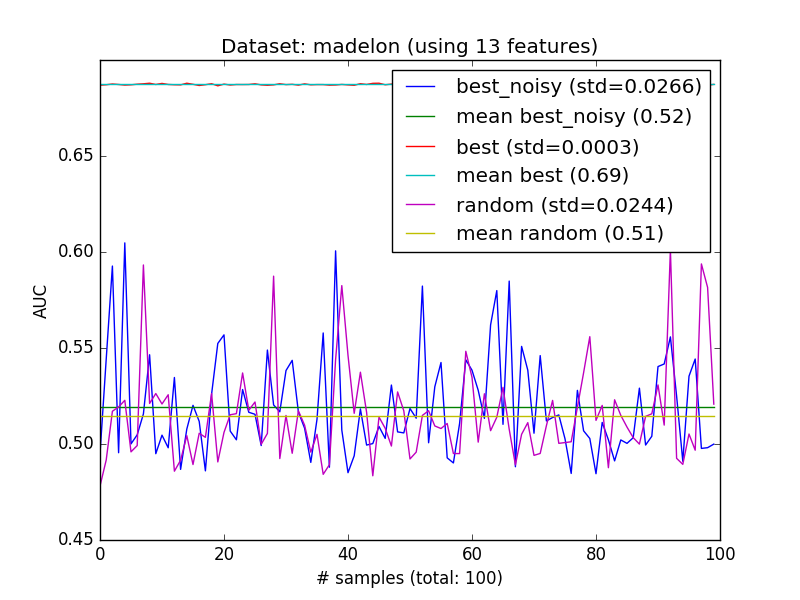
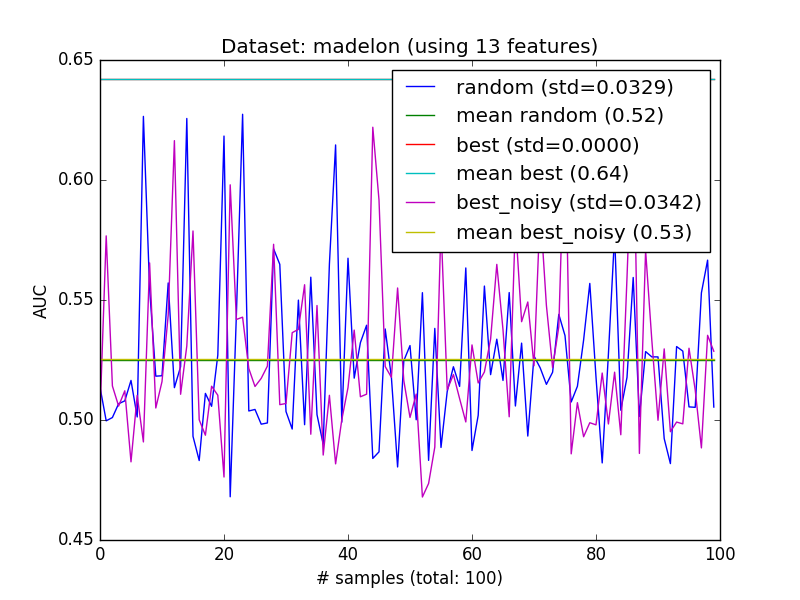
analysis madelon repeated

diff --git a/CSFSEvaluator.py b/CSFSEvaluator.py
@@ -12,6 +12,8 @@ class CSFSEvaluator:
         self.comparator = AUCComparator(df, target, fast=False, n_folds=2)
         self.df = df
         self.target = target
+        # this one will return deterministic results -> create here for better performance
+        self.best_selector = CSFSBestActualSelector(self.df, self.target)
 
     def _get_mean_auc_score(self, features):
         return self.comparator.get_mean_score(features)
@@ -27,8 +29,8 @@ class CSFSEvaluator:
         """
         random_selector = CSFSRandomSelector(self.df, self.target)
         print('> random selector ok')
-        best_selector = CSFSBestActualSelector(self.df, self.target)
-        print('> best selector ok')
+        # best_selector = CSFSBestActualSelector(self.df, self.target)
+        # print('> best selector ok')
         best_noisy_selector = CSFSBestUncertainSelector(self.df, self.target)
         print('> best noisy selector ok')
 
@@ -36,7 +38,7 @@ class CSFSEvaluator:
         for i in range(N_samples):
             print('> processing sample {} from {} samples'.format(i, N_samples))
             random_f = random_selector.select(N_features)
-            best_f = best_selector.select(N_features)
+            best_f = self.best_selector.select(N_features)
             best_noisy_f = best_noisy_selector.select(N_features)
 
             aucs['random'].append(self._get_mean_auc_score(random_f))

diff --git a/analysis_madelon.py b/analysis_madelon.py
@@ -10,15 +10,17 @@ def main():
     path = 'datasets/madelon/madelon_combined.csv'
     dataset_name = "madelon"
     target = 'target'
-    N_features = 16
+    N_features = [2,3,5,7,11,13,16]
     N_samples = 100
 
     df = CSFSLoader.load_dataset(path, format='csv')
     df = preprocess(df)
 
     evaluator = CSFSEvaluator(df, target)
-    aucs = evaluator.evaluate(N_features, N_samples)
-    evaluator.plot(aucs, {'dataset': dataset_name, 'N_features': N_features, 'N_samples': N_samples})
+
+    for n in N_features:
+        aucs = evaluator.evaluate(n, N_samples)
+        evaluator.plot(aucs, {'dataset': dataset_name, 'N_features': n, 'N_samples': N_samples})
 
 def preprocess(data):
     for f in data:

diff --git a/CSFSSelector.py b/CSFSSelector.py
@@ -39,12 +39,12 @@ class CSFSBestActualSelector(CSFSSelector):
 
     def __init__(self, df, target, df_crowd = None):
         super().__init__(df, target)
+        dict_ig = self._get_dict_ig()
+        self.ordered_predictors_dsc = self._get_ordered_predictors_dsc(dict_ig)
 
     def select(self, n):
         self._check_predictors_length(n)
-        dict_ig = self._get_dict_ig(self.df, self.target)
-        ordered_predictors_dsc = self._get_ordered_predictors_dsc(dict_ig)
-        return ordered_predictors_dsc[:n]
+        return self.ordered_predictors_dsc[:n]
 
     def _get_dict_ig(self):
         h_x = H(self.df[self.target])
